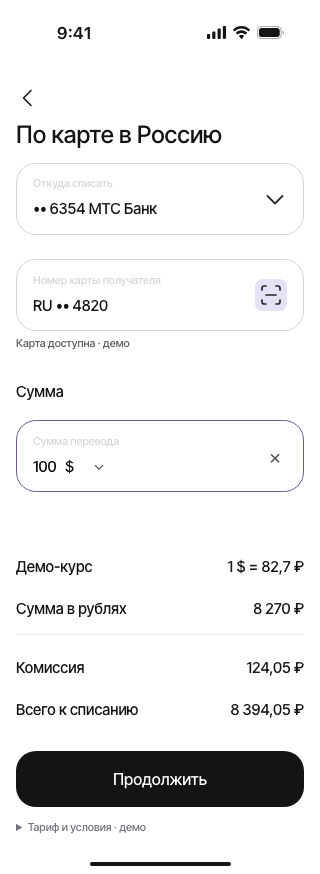
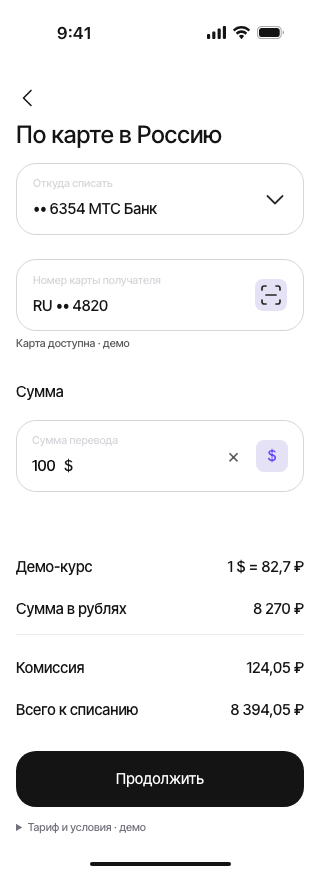
Match amount input and continue button states to Figma

diff --git a/src/authorized-transfer.js b/src/authorized-transfer.js
@@ -38,6 +38,7 @@ export function createAuthorizedTransfer({ cards, card, recipient, transferKind,
   let bank = savedRecipient?.bankInfo || null;
   let lookupVersion = 0;
   let lookupTimer;
+  let bankLookupPending=false;
   let availability = savedRecipient ? demoCardAvailability('', { saved: true }) : null;
   const international = transferKind === 'abroad';
   if(!international)screen.classList.add('card-transfer--russia');
@@ -55,8 +56,8 @@ export function createAuthorizedTransfer({ cards, card, recipient, transferKind,
         </div>
       </section>
       <section class="destination-section"><div class="destination-field recipient-card-field"><label for="destination-number">Номер карты получателя</label><input id="destination-number" inputmode="numeric" autocomplete="off" placeholder="0000 0000 0000 0000" aria-describedby="destination-error"><button type="button" class="scan-card" aria-label="Сканировать карту"><img src="./assets/images/${international ? 'card-scan.svg' : 'recipient-scan.svg'}" alt=""></button></div><p id="destination-error" class="field-error" role="alert"></p><p id="recipient-bank-status" class="recipient-bank" role="status"></p><p id="recipient-card-status" class="card-availability quote-note" role="status" aria-live="polite"></p></section>
-      <section class="inline-amount"><h2>Сумма</h2><div class="destination-field amount-field"><label for="transfer-amount">Сумма перевода</label><div class="amount-input-row"><input id="transfer-amount" class="transfer-amount-inline" inputmode="decimal" placeholder="0" aria-describedby="amount-error"><span class="currency-picker"><select class="amount-currency currency-select" aria-label="Валюта перевода"><option value="RUB" aria-label="Российский рубль">₽</option><option value="USD" aria-label="Доллар США">$</option><option value="EUR" aria-label="Евро">€</option></select><img src="./assets/images/card-source-chevron.svg" alt="" aria-hidden="true"></span></div><button type="button" class="clear-amount" aria-label="Очистить сумму" hidden>×</button></div><p id="amount-error" class="field-error" role="alert"></p><button type="button" class="add-shortfall" hidden></button></section><div class="transfer-footer"><div class="inline-quote" hidden>${international ? '<dl class="quote-summary international-summary"><dt>Курс перевода</dt><dd data-rate>—</dd><dt>Получатель получит</dt><dd data-receive>—</dd></dl>' : ''}<dl class="amount-conversion" hidden><dt>Демо-курс</dt><dd data-amount-rate></dd><dt>Сумма в рублях</dt><dd data-amount-rubles></dd></dl><dl class="quote-summary"><dt>Комиссия</dt><dd data-fee>—</dd><dt>Всего к списанию</dt><dd data-total>—</dd></dl></div>
-      <div class="recipient-next"><button class="authorized-continue" disabled>Продолжить</button></div>
+      <section class="inline-amount"><h2>Сумма</h2><div class="destination-field amount-field"><label for="transfer-amount">Сумма перевода</label><div class="amount-input-row"><input id="transfer-amount" class="transfer-amount-inline" inputmode="decimal" placeholder="0" aria-describedby="amount-error"><span class="currency-picker"><select class="amount-currency currency-select" aria-label="Валюта перевода"><option value="RUB" aria-label="Российский рубль">₽</option><option value="USD" aria-label="Доллар США">$</option><option value="EUR" aria-label="Евро">€</option></select><img src="./assets/images/card-source-chevron.svg" alt="" aria-hidden="true"></span><span class="amount-unit" aria-hidden="true">₽</span></div><button type="button" class="clear-amount" aria-label="Очистить сумму" hidden>×</button></div><p id="amount-error" class="field-error" role="alert"></p><button type="button" class="add-shortfall" hidden></button></section><div class="transfer-footer"><div class="inline-quote" hidden>${international ? '<dl class="quote-summary international-summary"><dt>Курс перевода</dt><dd data-rate>—</dd><dt>Получатель получит</dt><dd data-receive>—</dd></dl>' : ''}<dl class="amount-conversion" hidden><dt>Демо-курс</dt><dd data-amount-rate></dd><dt>Сумма в рублях</dt><dd data-amount-rubles></dd></dl><dl class="quote-summary"><dt>Комиссия</dt><dd data-fee>—</dd><dt>Всего к списанию</dt><dd data-total>—</dd></dl></div>
+      <div class="recipient-next"><button class="authorized-continue" disabled aria-label="Продолжить" aria-busy="false"><span class="continue-label">Продолжить</span><img class="continue-spinner" src="./assets/images/continue-spinner.svg" alt="" hidden></button></div>
       </div>
     <details class="quote-disclosure" hidden><summary>Тариф и условия · демо</summary><p class="quote-note"></p></details>
     </form>
@@ -104,10 +105,11 @@ export function createAuthorizedTransfer({ cards, card, recipient, transferKind,
   function detectBank() {
     const version=++lookupVersion;clearTimeout(lookupTimer);
     bank=null;bankStatus.textContent='';
-    availability=null;availabilityStatus.textContent='';
+    availability=null;availabilityStatus.textContent='';bankLookupPending=false;
     input.setAttribute('aria-invalid','false');
     const digits=input.value.replace(/\D/g,'');
     if(!validCard(digits)){update();return;}
+    bankLookupPending=true;
     availabilityStatus.textContent='Проверяем возможность перевода · демо';
     update();
     bankStatus.textContent='';
@@ -130,7 +132,7 @@ export function createAuthorizedTransfer({ cards, card, recipient, transferKind,
         if(version!==lookupVersion)return;
         bankStatus.textContent='';
       }
-      if(version===lookupVersion)update();
+      if(version===lookupVersion){bankLookupPending=false;update();}
     },350);
   }
   function ready() { return !!source && availability?.available === true && (!!savedRecipient || validCard(input.value)); }
@@ -243,6 +245,7 @@ export function createAuthorizedTransfer({ cards, card, recipient, transferKind,
     amountInput.closest('.destination-field').classList.toggle('is-filled',!!amountInput.value);
     screen.querySelector('.transfer-review')?.remove();
     currencySelect.value=amountCurrency;
+    screen.querySelector('.amount-unit').textContent=amountSymbols[amountCurrency];
     currencySelect.title='Валюта перевода: '+amountCurrency;
     amountInput.setAttribute('aria-label','Сумма перевода в '+amountCurrencyNames[amountCurrency]);
     clearAmount.hidden=amountInput.value.length===0;
@@ -256,7 +259,7 @@ export function createAuthorizedTransfer({ cards, card, recipient, transferKind,
     const bankSupported=international ? effectiveBank.country==='UZ' : effectiveBank.country==='RU';
     const supported=source&&(!source.currency||source.currency==='RUB')&&bankSupported;
     const rubles=valid?amountInRubles(value,amountCurrency):null;
-    currentQuote=valid&&rubles>0&&supported&&availability?.available?{
+    currentQuote=valid&&rubles>0&&supported&&availability?.available&&!bankLookupPending?{
       ...(international?internationalDemoQuote(rubles,source.balance):domesticQuote(rubles,source.balance,effectiveBank.sameBank)),
       rubles,enteredAmount:value,enteredCurrency:amountCurrency,amountRate:demoAmountRates[amountCurrency],
     }:null;
@@ -265,7 +268,7 @@ export function createAuthorizedTransfer({ cards, card, recipient, transferKind,
     conversion.querySelector('[data-amount-rate]').textContent='1 '+amountSymbols[amountCurrency]+' = '+money(demoAmountRates[amountCurrency]);
     conversion.querySelector('[data-amount-rubles]').textContent=currentQuote?money(currentQuote.rubles):!raw?'0 ₽':'—';
     if(international){quoteBox.querySelector('[data-rate]').textContent=currentQuote?'1 ₽ = 150 UZS':'—';quoteBox.querySelector('[data-receive]').textContent=currentQuote?new Intl.NumberFormat('ru-RU',{maximumFractionDigits:2}).format(currentQuote.receive)+' UZS':'—';}
-    const showQuote=ready() && !!supported;
+    const showQuote=ready() && !!supported && !bankLookupPending;
     quoteBox.hidden=!showQuote;
     screen.classList.toggle('has-quote',showQuote);
     screen.querySelector('.quote-disclosure').hidden=!showQuote;
@@ -279,6 +282,11 @@ export function createAuthorizedTransfer({ cards, card, recipient, transferKind,
       const shortfall=(Math.round(currentQuote.total*100)-Math.round(source.balance*100))/100;
       addShortfall.textContent='Добавить '+money(shortfall);
     }
+    const calculating=!!source&&valid&&bankLookupPending&&availability?.available!==false;
+    next.setAttribute('aria-busy',String(calculating));
+    next.setAttribute('aria-label',calculating?'Рассчитываем перевод':'Продолжить');
+    next.querySelector('.continue-label').hidden=calculating;
+    next.querySelector('.continue-spinner').hidden=!calculating;
     next.disabled=!ready()||!currentQuote||currentQuote.insufficient||(!guest&&source?.external&&!sourceDetails.demoComplete());
   }
   amountInput.oninput=updateQuote;

diff --git a/src/styles.css b/src/styles.css
@@ -1177,3 +1177,28 @@ body:has(.card-transfer) .home-indicator { height:calc(32px + env(safe-area-inse
 @media(hover:hover) and (pointer:fine) {
   .card-transfer--russia .recipient-card-field:hover .scan-card { background:#e5e2f6; }
 }
+
+/* Amount variants — Figma 137:4097. Currency is a 32 px action on the right. */
+.amount-unit { display:none; }
+.card-transfer--russia .amount-field,
+.card-transfer--russia .amount-field:focus-within { border-color:var(--c2c-border-default); padding:11px 15px; }
+.card-transfer--russia .amount-input-row { padding-right:80px; width:100%; }
+.card-transfer--russia .amount-unit { display:block; flex-shrink:0; font:500 15px/28px 'Inter Tight',sans-serif; }
+.card-transfer--russia .amount-field .currency-picker { position:absolute; right:15px; top:50%; transform:translateY(-50%); width:32px; height:32px; }
+.card-transfer--russia .currency-select { width:32px; height:32px; margin:0; padding:0; border-radius:8px; color:#6641fb; background:#e5e2f6; font:500 15px/32px 'Inter Tight',sans-serif; text-align:center; text-align-last:center; }
+.card-transfer--russia .currency-picker>img { display:none; }
+.card-transfer--russia .clear-amount { visibility:hidden; right:53.5px; top:50%; transform:translateY(-50%); width:32px; height:32px; border-radius:8px; line-height:32px; }
+.card-transfer--russia .amount-field:focus-within .clear-amount { visibility:visible; }
+.card-transfer--russia .amount-field:has(input[aria-invalid=true]) { border-color:#b83d45; }
+.card-transfer--russia .amount-field:has(input[aria-invalid=true]) input,
+.card-transfer--russia .amount-field:has(input[aria-invalid=true]) .amount-unit { color:#b83d45; }
+.card-transfer--russia .amount-field:has(input[aria-invalid=true]) label { color:#141414; }
+.card-transfer--russia .inline-amount>#amount-error { margin:4px 18px 0; font:500 11px/16px 'Inter Tight',sans-serif; }
+
+/* Continue button — default, inactive and loading variants from 137:4184. */
+.card-transfer .recipient-next .authorized-continue { display:flex; align-items:center; justify-content:center; height:56px; padding:0; border-radius:20px; background:#141414; color:white; font:500 15px/18px 'Inter Tight',sans-serif; }
+.card-transfer .recipient-next .authorized-continue:disabled { background:#ebebee; color:#d5d5da; transform:none; filter:none; }
+.card-transfer .recipient-next .authorized-continue[aria-busy=true] { background:#141414; color:white; }
+.continue-spinner { width:24px; height:24px; animation:continue-turn .9s linear infinite; }
+@keyframes continue-turn { to { transform:rotate(360deg); } }
+@media(prefers-reduced-motion:reduce) { .continue-spinner { animation:none; } }

diff --git a/README.md b/README.md
@@ -120,3 +120,11 @@ npm test
 Для «По карте в Россию» поле и его состояния сверены с `137:4095` и набором `101:337` (Default, Filled, Hover, Error). Серая граница, исходная иконка сканирования 24 × 24 в кнопке 32 × 32, светлая подпись заполненного поля, красные граница/номер и сообщение «Неверный номер карты» при ошибке. Кнопка получает лавандовую подложку при наведении, заполнении и ошибке; в исходном пустом экземпляре `137:4095` подложка прозрачная. Сканирование открывает демонстрационное окно и не отправляет форму.
 
 Проверка: `node tests/recipient-field-figma.mjs` при запущенном сервере. Визуальные состояния, координаты и размеры, недоступная карта, исправление номера, комиссия и четыре ширины. Снимки: `screenshots/recipient-default.png`, `screenshots/recipient-filled.png`, `screenshots/recipient-hover.png`, `screenshots/recipient-error.png`.
+
+## Сумма и кнопка «Продолжить» — актуальные состояния
+
+Поле суммы обновлено по `137:4097`: серая граница, единица валюты рядом с числом и отдельная лавандовая кнопка валюты 32 × 32 справа. Сохранены ₽/$/€, демо-конвертация и очистка суммы (доступна при фокусе в поле). Заполненная подпись светлая; при ошибке граница, сумма и единица валюты красные, подпись чёрная, пояснение под полем.
+
+Кнопка сверена с `140:2161`/`137:4184`: 56 px высоты, радиус 20 px, Inter Tight Medium 15 px. Неактивная — фон `#EBEBEE`, текст `#D5D5DA`; активная — `#141414`/белый; загрузка — чёрная с оригинальным спиннером 24 × 24. Загрузка отображается при заполненной сумме, выбранном отправителе и ожидании проверки получателя/банка. Пока проверка не закончилась, финальная комиссия и подтверждение недоступны. Повторный ввод отменяет устаревшее состояние; при уменьшенном движении спиннер не вращается.
+
+Проверка: `node tests/amount-button-states.mjs`. Пустое, заполненное, hover- и ошибочное поле, координаты валютной кнопки, три состояния CTA, реальный ожидающий запрос, уменьшенное движение, валюта/комиссия, очистка и узкие экраны. Снимки: `screenshots/amount-*.png`, `screenshots/continue-*.png`.
